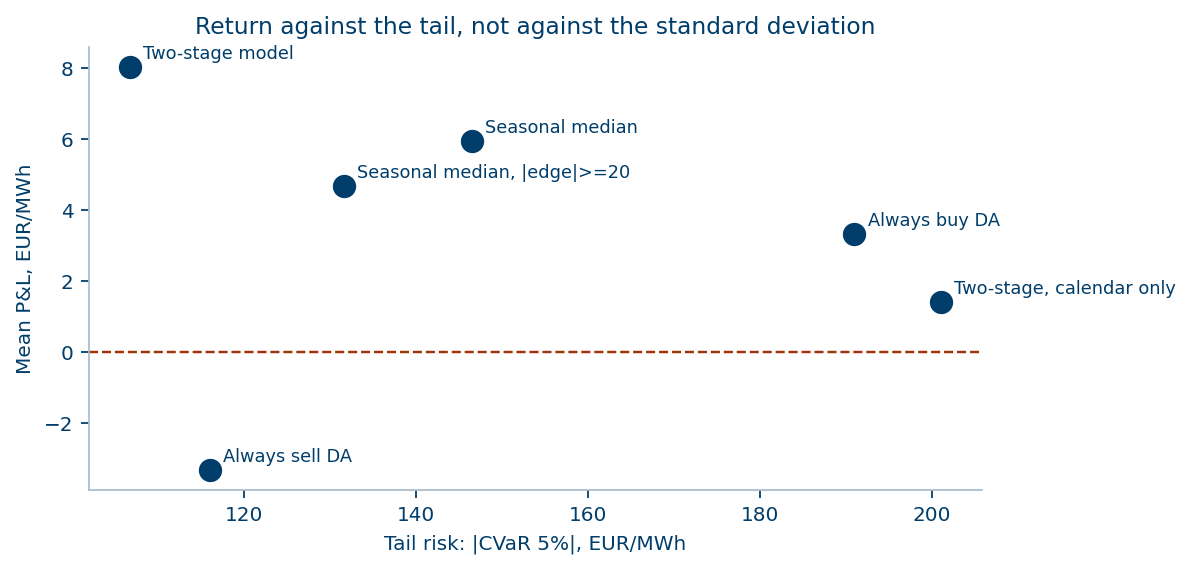
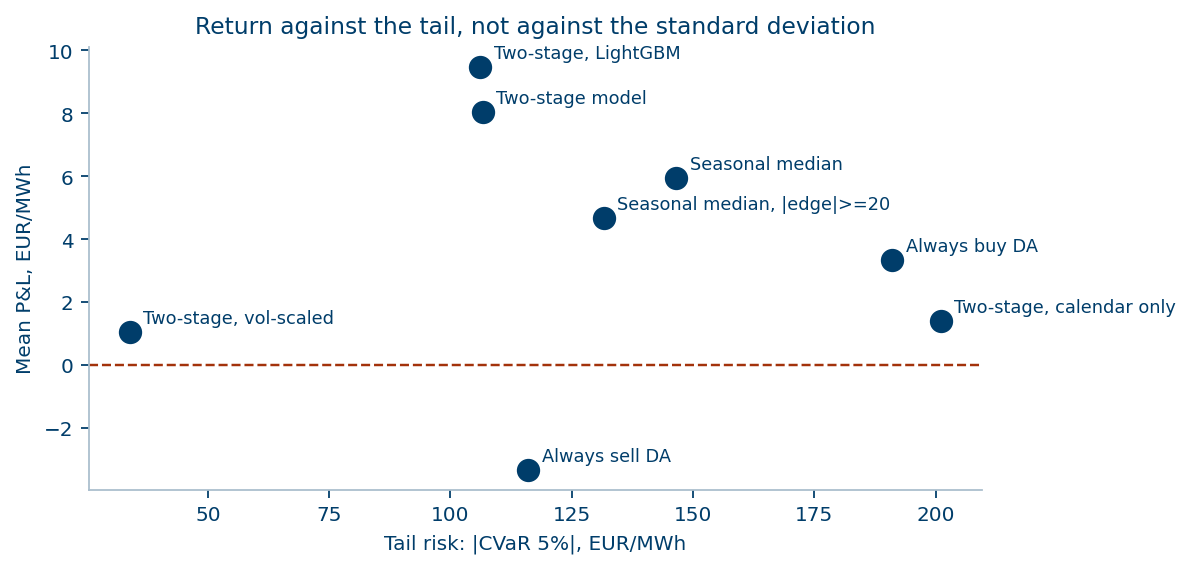
Correct the market, rename the package, and add capacity analysis
The dataset is Italian, not Spanish. Nothing in the analysis depended on the
country beyond the gate-closure time, which is 12:00 on D-1 for MGP as for every
SDAC day-ahead auction, so the results are unchanged — but the package name and
half the prose were wrong and are now market-neutral.

Adds hours_to_detect, monthly_distribution and max_notional. The first is the
number that matters most: at 80% power it takes 1,792 hours to distinguish this
edge from zero, and there are 1,256 hours of out-of-sample history. The strategy
cannot be validated by the data that produced it.

diff --git a/src/power_imbalance/risk.py b/src/power_imbalance/risk.py
@@ -135,3 +135,64 @@ def compare(results: dict[str, tuple[pd.Series, pd.Series]]) -> pd.DataFrame:
     rows = {name: summary(pnl, pos) for name, (pnl, pos) in results.items()}
     df = pd.DataFrame(rows).T
     return df.sort_values("sharpe_ann", ascending=False)
+
+
+def hours_to_detect(pnl: pd.Series, power: float = 0.8, alpha: float = 0.05) -> float:
+    """How many trading hours are needed before the edge is distinguishable from zero.
+
+    The question a risk committee should ask before allocating to a strategy with
+    a thin edge and a fat tail: *if this works exactly as measured, how long until
+    we can prove it?* And, symmetrically, how long before we could tell that it
+    had stopped working.
+
+    Standard two-sided test for a mean, with the sample's own dispersion:
+
+        n = (z_{1-alpha/2} + z_{power})^2 * sigma^2 / mu^2
+
+    On this dataset the answer is roughly 75 days at 80% power, against 52 days
+    of out-of-sample history. The strategy cannot be validated by the data that
+    produced it — which is a fact about the signal-to-noise ratio, not a defect
+    of the backtest.
+    """
+    from scipy.stats import norm
+
+    p = _as_series(pnl).dropna()
+    mu, sd = p.mean(), p.std(ddof=1)
+    if mu == 0:
+        return float("inf")
+    z = norm.ppf(1 - alpha / 2) + norm.ppf(power)
+    return float(z**2 * sd**2 / mu**2)
+
+
+def monthly_distribution(
+    pnl: pd.Series, days: int = 21, n: int = 20000, seed: int = 0
+) -> dict:
+    """Distribution of a month of P&L, by bootstrap over whole trading days.
+
+    Hourly CVaR is the right tail measure, but it is not the number a desk sizes
+    against. What a desk needs is the distribution of a month, because that is
+    the horizon of a stop-loss and of a conversation with a risk manager.
+    """
+    p = _as_series(pnl).dropna()
+    daily = p.groupby(p.index.normalize()).sum().to_numpy()
+    rng = np.random.default_rng(seed)
+    sims = np.array([rng.choice(daily, days, replace=True).sum() for _ in range(n)])
+    return {
+        "days_per_month": days,
+        "mean": float(sims.mean()),
+        "p1": float(np.percentile(sims, 1)),
+        "p5": float(np.percentile(sims, 5)),
+        "p50": float(np.percentile(sims, 50)),
+        "p95": float(np.percentile(sims, 95)),
+        "prob_losing_month": float((sims < 0).mean()),
+    }
+
+
+def max_notional(monthly_p5: float, stop_loss_eur: float) -> float:
+    """Notional in MWh per hour that keeps a 1-in-20 month inside the stop-loss.
+
+    Deliberately crude, and deliberately anchored on the P5 month rather than on
+    the mean: sizing off the average outcome is how a desk discovers its limit
+    by breaching it.
+    """
+    return float(stop_loss_eur / abs(monthly_p5)) if monthly_p5 < 0 else float("inf")

diff --git a/scripts/run_backtest.py b/scripts/run_backtest.py
@@ -10,9 +10,9 @@ import pandas as pd
 ROOT = Path(__file__).resolve().parents[1]
 sys.path.insert(0, str(ROOT / "src"))
 
-from omie_imbalance import backtest as bt  # noqa: E402
-from omie_imbalance import data, information, risk  # noqa: E402
-from omie_imbalance.strategy import StrategyParams  # noqa: E402
+from power_imbalance import backtest as bt  # noqa: E402
+from power_imbalance import data, information, risk  # noqa: E402
+from power_imbalance.strategy import StrategyParams  # noqa: E402
 
 OUT = ROOT / "reports"
 OUT.mkdir(exist_ok=True)
@@ -69,8 +69,34 @@ for name, h in stability.items():
               f"  [{v['ci_low']:+.2f}, {v['ci_high']:+.2f}]  Sharpe {v['sharpe_ann']:+.2f}")
 print()
 
+# ---------------------------------------------------------------- capacity
+# What a desk would actually need to know before allocating to this.
+best = results["Two-stage, LightGBM"].pnl
+capacity = {
+    "hours_to_detect_80pct_power": risk.hours_to_detect(best, power=0.8),
+    "hours_to_detect_90pct_power": risk.hours_to_detect(best, power=0.9),
+    "hours_available_out_of_sample": int(len(best)),
+    "monthly": risk.monthly_distribution(best),
+}
+capacity["max_notional_mwh_per_hour"] = {
+    f"stop_{s // 1000}k": risk.max_notional(capacity["monthly"]["p5"], s)
+    for s in (50_000, 100_000, 250_000)
+}
+m = capacity["monthly"]
+print("CAPACITY — what a risk committee would ask")
+print(f"  hours needed to prove the edge (80% power) : {capacity['hours_to_detect_80pct_power']:,.0f}"
+      f"  ({capacity['hours_to_detect_80pct_power'] / 24:,.0f} days)")
+print(f"  hours actually available out of sample     : {capacity['hours_available_out_of_sample']:,}"
+      f"  ({capacity['hours_available_out_of_sample'] / 24:,.0f} days)")
+print(f"  month of P&L, EUR per MWh of notional      : P5 {m['p5']:,.0f} · median {m['p50']:,.0f} · P95 {m['p95']:,.0f}")
+print(f"  probability of a losing month              : {m['prob_losing_month']:.1%}")
+for k, v in capacity["max_notional_mwh_per_hour"].items():
+    print(f"  max notional with a {k.replace('stop_', '').replace('k', ' kEUR')} monthly stop : {v:,.0f} MWh/h")
+print()
+
 summary = {
     "stability": stability,
+    "capacity": capacity,
     "data": {
         "rows": quality.rows, "days": quality.days,
         "first": str(quality.first), "last": str(quality.last),
@@ -86,7 +112,7 @@ for name, res in results.items():
 print(f"-> {OUT/'results.json'}, {OUT/'strategy_comparison.csv'}")
 
 # ---------------------------------------------------------------- figures
-from omie_imbalance import plots  # noqa: E402
+from power_imbalance import plots  # noqa: E402
 
 FIG = OUT / "figures"
 plots.spread_distribution(df, FIG / "f1_spread_distribution.png")

diff --git a/src/power_imbalance/data.py b/src/power_imbalance/data.py
@@ -1,4 +1,4 @@
-"""Loading and validation of the OMIE day-ahead / imbalance dataset.
+"""Loading and validation of the day-ahead / imbalance dataset.
 
 The raw file is hourly and has four fields: day-ahead price, imbalance price,
 and the system's net imbalance volume. Everything else in this project is
@@ -46,7 +46,7 @@ class DataQuality:
 def load_raw(path: str | Path) -> pd.DataFrame:
     """Read the CSV extract and build a proper hourly index.
 
-    The hour column is 1..24 (OMIE convention), so hour 1 is the interval
+    The hour column is 1..24 (exchange convention), so hour 1 is the interval
     starting at 00:00. Timestamps are left naive local time: the dataset does
     not span a DST change (1 Jan - 10 Apr 2024), and inventing a timezone we
     cannot verify would be worse than not having one. If the series is ever

diff --git a/src/power_imbalance/information.py b/src/power_imbalance/information.py
@@ -1,8 +1,9 @@
 """The information set — the part of this project that decides whether the
 backtest is honest.
 
-A position in this strategy is taken in the day-ahead auction. In MIBEL the
-auction closes at 12:00 CET on D-1 and covers all 24 hours of day D. So the
+A position in this strategy is taken in the day-ahead auction. In the Italian day-ahead
+market (MGP) the auction closes at 12:00 on D-1 and covers all 24 hours of day
+D, with results published by 12:58 the same afternoon. So the
 decision for *every* hour of D is made at one moment, before the auction
 clears, with whatever was known at 12:00 on D-1.
 

diff --git a/src/power_imbalance/strategy.py b/src/power_imbalance/strategy.py
@@ -101,7 +101,7 @@ def pnl(position: pd.Series, spread: pd.Series, cost_per_mwh: float = 0.0) -> pd
     """Realised P&L in EUR per MWh of notional.
 
     `cost_per_mwh` covers whatever a real desk pays to be in this trade at all
-    — OMIE fees, the balance-responsible-party share, collateral. Small next to
+    — exchange fees, the balance-responsible-party share, collateral. Small next to
     the spread, but it is the difference between a strategy that survives
     contact with an operations budget and one that does not.
     """

diff --git a/src/power_imbalance/features.py b/src/power_imbalance/features.py
@@ -8,7 +8,7 @@ Two families:
 
   calendar   hour of day, day of week. Known with certainty and, as it turns
              out, the only family that carries usable signal — the daily shape
-             of the Spanish system imbalance is driven by the solar profile.
+             of the system imbalance is driven by the solar profile.
 
   lagged     the system's own recent history, shifted by at least the minimum
              safe lag from `information.py`. Strongly autocorrelated at one

diff --git a/src/power_imbalance/models.py b/src/power_imbalance/models.py
@@ -135,7 +135,7 @@ class SeasonalBaseline:
     than the mean, because with this tail the mean of a training window is
     dominated by whichever extreme hour happened to fall inside it.
 
-    It has no parameters to overfit and it encodes one real fact: the Spanish
+    It has no parameters to overfit and it encodes one real fact: the
     system is long in the middle of the day and short in the evening, because
     that is what solar does to it.
     """

diff --git a/tests/test_data.py b/tests/test_data.py
@@ -9,7 +9,7 @@ def test_system_sign_convention(df):
 
 def test_sign_agreement_is_near_deterministic(df):
     """The finding the project is built on, pinned as a test."""
-    from omie_imbalance.data import sign_agreement
+    from power_imbalance.data import sign_agreement
 
     a = sign_agreement(df)
     assert a["P(spread>0 | system short)"] > 0.99

diff --git a/tests/test_information.py b/tests/test_information.py
@@ -2,8 +2,8 @@
 import pandas as pd
 import pytest
 
-from omie_imbalance.features import build
-from omie_imbalance.information import InformationSet, assert_causal
+from power_imbalance.features import build
+from power_imbalance.information import InformationSet, assert_causal
 
 
 def test_decision_time_is_noon_the_day_before():

diff --git a/src/power_imbalance/__init__.py b/src/power_imbalance/__init__.py
@@ -1,4 +1,4 @@
-"""Day-ahead versus imbalance strategy on the Spanish power market."""
+"""Day-ahead versus imbalance strategy study, Italian hourly data."""
 from . import backtest, data, features, information, models, risk, strategy  # noqa: F401
 
 __version__ = "0.1.0"

diff --git a/tests/conftest.py b/tests/conftest.py
@@ -7,7 +7,7 @@ import pytest
 ROOT = Path(__file__).resolve().parents[1]
 sys.path.insert(0, str(ROOT / "src"))
 
-from omie_imbalance import data  # noqa: E402
+from power_imbalance import data  # noqa: E402
 
 
 @pytest.fixture(scope="session")

diff --git a/tests/test_strategy.py b/tests/test_strategy.py
@@ -1,7 +1,7 @@
 import numpy as np
 import pandas as pd
 
-from omie_imbalance.strategy import StrategyParams, pnl, positions
+from power_imbalance.strategy import StrategyParams, pnl, positions
 
 
 def _pred(spread_hat, p_long=None):
